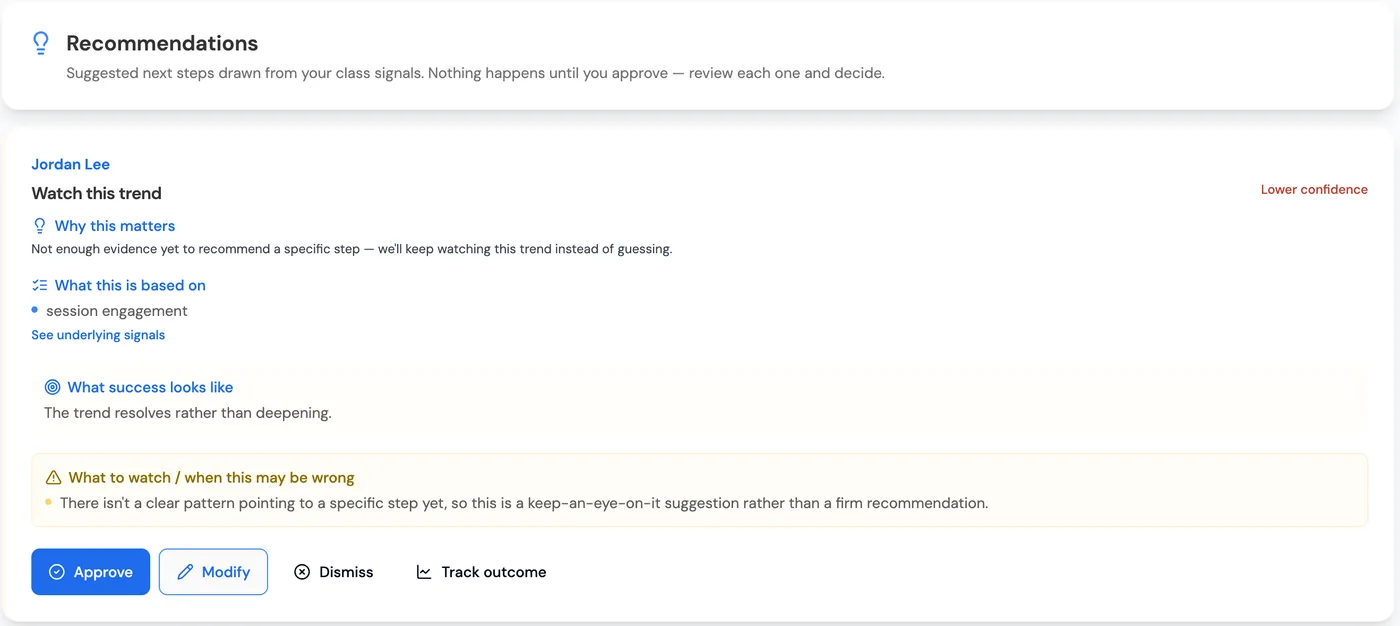
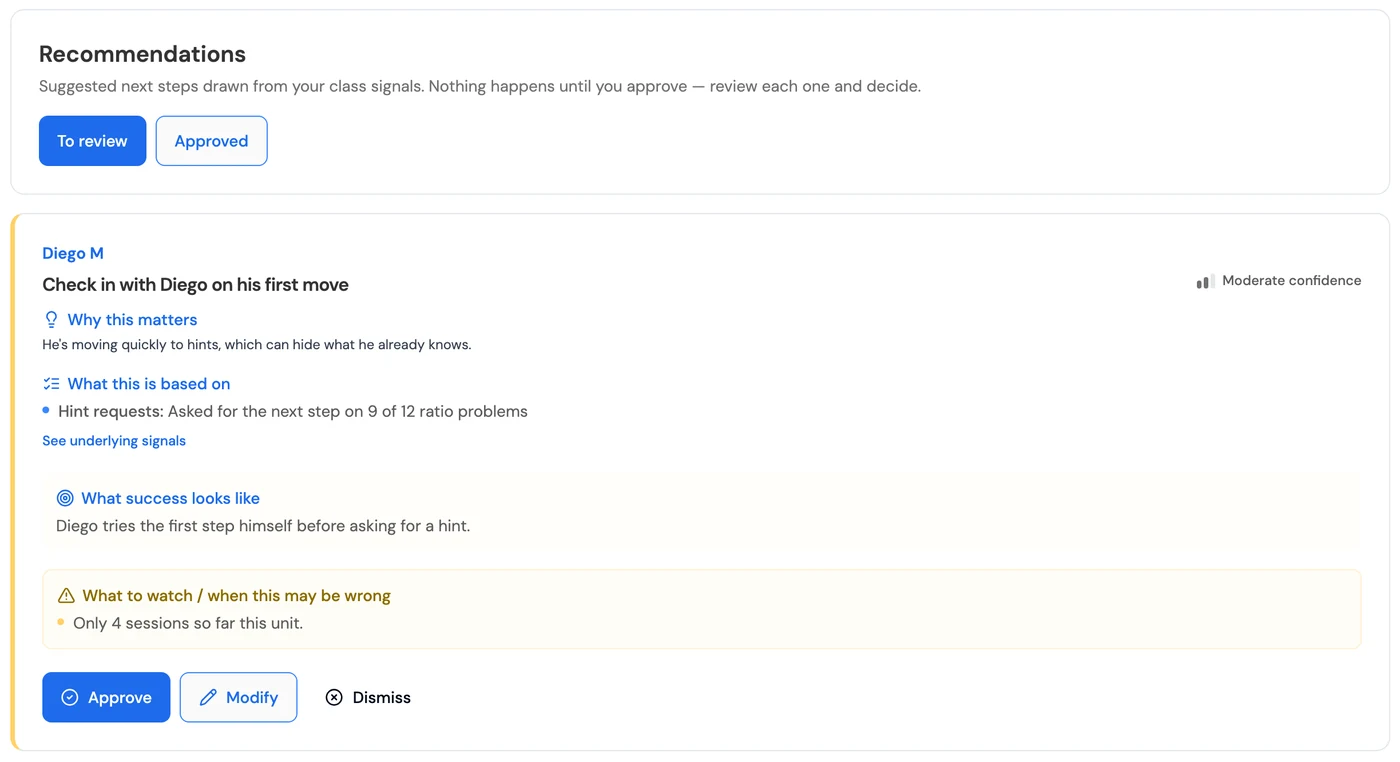
feat(screens): redesigned app screenshots on teacher, parent and school pages
Swap the old-UI Today's Brief, Recommendations, parent weekly activity, Trust & Privacy
and Learner Passport crops for the 2026-10-29 redesign batch, and add two new beats:
student Home with Sprig and XP on /parents, and parent Consent & Privacy on /schools.
All crops are cut and resized only (1400px WebP) from hermetic demo data.

diff --git a/src/data/productScreens.ts b/src/data/productScreens.ts
@@ -1,6 +1,8 @@
 // Cropped screens from the live Mentra app, shot on a fictional showcase class.
 // Source frames: marketing/carousel/<date>/ in the app repo (see the showcase doc for
 // which frames are cleared for marketing). Crops live in /public/images/product.
+// The teacher Brief and Recommendations, parent Home, Trust and Consent, and student Home and Passport crops come
+// from the 2026-10-29 redesign batch (hermetic demo data: Maya R, Diego M and the rest are invented).
 
 /**
  * What the interaction on a screen feeds into the learner model. Every line must trace to code in the
@@ -155,12 +157,12 @@ export const screens = {
     },
   ),
   parentTrust: screen(
-    'parent-trust', 1400, 479, 'Parent · Trust & Privacy',
-    "A parent's Trust & Privacy page: an active consent record listing five purposes, with partner sharing and anonymized product use turned off, and a toggle for each purpose explaining what turning it off does.",
+    'parent-trust', 1400, 631, 'Parent · Trust & Privacy',
+    "A parent's Trust & Privacy page for their child Maya: consent active since Aug 14, 2026, and a toggle for each of six purposes, from running Mentra to product update emails. Each one says what it allows and what turning it off changes. Partner sharing and product emails are off.",
   ),
   teacherBrief: screen(
-    'teacher-brief', 1400, 517, "Teacher · Today's Brief",
-    "A teacher's Today's Brief: class signals written as plain sentences, and one recommendation that says there isn't enough evidence yet, so it will keep watching instead of guessing.",
+    'teacher-brief', 1400, 758, "Teacher · Today's Brief",
+    "A teacher's Today's Brief: class signals written as plain sentences, then What needs me today. Diego M needs attention because he has been asking Sprig for the next step on most ratio problems, with a suggested next step and a note that it's based on 4 sessions. Below it, 2 assignments need grading and a recommendation to check in with Diego.",
   ),
   teacherAnalytics: screen(
     'teacher-analytics', 1400, 782, 'Teacher · Investigation analytics',
@@ -175,12 +177,12 @@ export const screens = {
     },
   ),
   teacherRecommendation: screen(
-    'teacher-recommendation', 1400, 626, 'Teacher · Recommendations',
-    "A recommendation for Jordan marked lower confidence, explaining why it matters, what it's based on, what success looks like and when it may be wrong, with Approve, Modify, Dismiss and Track outcome buttons. The page notes that nothing happens until the teacher approves.",
+    'teacher-recommendation', 1400, 762, 'Teacher · Recommendations',
+    "A recommendation to check in with Diego on his first move, marked moderate confidence. It says why it matters, that it's based on him asking for the next step on 9 of 12 ratio problems, what success looks like, and that it may be wrong because there have only been 4 sessions. Approve, Modify and Dismiss buttons sit below. The page notes that nothing happens until the teacher approves.",
   ),
-  parentOneQuestion: screen(
-    'parent-one-question', 1400, 354, 'Parent · One question this week',
-    "A two-minute suggestion for Jordan's parent: at dinner, ask what Jordan figured out this week, then just listen. It notes it's a general tip because no standout moments came up this week, and offers four feedback buttons.",
+  parentHome: screen(
+    'parent-home', 1400, 391, 'Parent · Home',
+    "A parent's home page. A 10-minute activity, Ratios at the dinner table: Maya's class is working on ratios, so double a favorite recipe together and ask her how she knows how much of each ingredient to use, with four feedback buttons. Beside it, good news: Maya caught and fixed her own mistake on a ratio problem this week, and a suggestion to ask her how she noticed.",
   ),
   teacherParentMessage: screen(
     'teacher-parent-message', 1400, 978, 'Teacher · Messages with families',
@@ -190,9 +192,17 @@ export const screens = {
     'parent-teacher-message', 1400, 1033, 'Parent · Messages with the teacher',
     "The parent's view of the same thread: the teacher's message about Jordan's sunlight conversation with Sprig, and the parent's reply saying they'll ask about the plant in the dark at dinner.",
   ),
-  parentPassport: screen(
-    'parent-passport', 1400, 283, 'Parent · Learner Passport',
-    "Milestones on a child's Learner Passport, as the parent sees it: Reflection Beginner and Dream Planter reached, with Story Weaver at 4 of 10 journal entries and Goal Builder at 2 of 5 goals next.",
+  studentPassport: screen(
+    'student-passport', 1400, 775, 'Student · Learner Passport',
+    "A student's Learner Passport. At the top, an insight marked starting to show: you tend to slow down and check your thinking before you answer. The passport says when it started counting each activity, then lists recorded activity (7 Guided Q&A, 5 journal entries, 4 assignments, 3 explorations) and three goals the student set, each with their own estimate of progress.",
+  ),
+  parentConsent: screen(
+    'parent-consent', 1400, 720, 'Parent · Consent & Privacy',
+    "A parent's Consent & Privacy page. A note says the child can use Sprig only with the parent's OK, which they can give, review or withdraw at any time. Maya R, grade 6 and under 13, has active consent with History, Withdraw consent and Request Data Deletion buttons. Below, the parent can export the child's last 30 days of AI conversations, redacted for privacy, as JSON or for printing.",
+  ),
+  studentHome: screen(
+    'student-home', 1400, 755, 'Student · Home',
+    "A student's home page: Good afternoon, Maya, with 1 of 3 quests done. Her Sprig is at level 3, 110 XP from level 4. A card offers to continue yesterday's Ask Sprig question, why does ice float. Today's quests: ask Sprig a why-question (done, 15 XP), write one journal reflection, and explore an idea spark.",
   ),
 } satisfies Record<string, Screen>;
 

diff --git a/src/data/audiences.ts b/src/data/audiences.ts
@@ -92,6 +92,12 @@ export const audiences: Audience[] = [
         screen: screens.studentZoe,
       },
       {
+        eyebrow: 'Their home screen',
+        title: 'A Sprig that grows with them',
+        text: 'Your child earns XP for asking why, writing a reflection or exploring an idea, not for right answers. Their Sprig levels up as they go, and they pick up where they left off.',
+        screen: screens.studentHome,
+      },
+      {
         eyebrow: 'From the teacher',
         title: 'A story, not just a grade',
         text: "Your child's teacher can share what happened in a conversation with Sprig, in your child's own words, with one thing to ask at dinner.",
@@ -100,14 +106,14 @@ export const audiences: Audience[] = [
       {
         eyebrow: 'At home',
         title: 'One small thing to try',
-        text: 'Each week you get one two-minute idea, not a report card. Tap a button to tell Mentra whether it landed.',
-        screen: screens.parentOneQuestion,
+        text: 'Each week you get one small thing to try at home, tied to what the class is learning. Tap a button to tell Mentra whether it landed.',
+        screen: screens.parentHome,
       },
       {
         eyebrow: 'Learner Passport',
         title: 'A record of what your child has done',
-        text: "The Learner Passport shows milestones your child has reached and what's next. It's honest about its limits: not every activity is counted there yet.",
-        screen: screens.parentPassport,
+        text: "Your child's Learner Passport shows what they've done and the goals they set, and says when it started counting each activity. It's honest about its limits: not every activity is counted there yet.",
+        screen: screens.studentPassport,
       },
       {
         eyebrow: 'Permissions',
@@ -148,6 +154,12 @@ export const audiences: Audience[] = [
         title: "Honest about what it doesn't know yet",
         text: "Until there's enough recent work, a student's read says so instead of producing a number your board can't trust. The turns it has seen are listed and labelled, and a turn where the student only repeated Sprig isn't counted as independent work.",
         screen: screens.teacherTurnTrace,
+      },
+      {
+        eyebrow: 'Family consent',
+        title: 'Parents hold the keys',
+        text: "A child under 13 uses Sprig only with a parent's OK. Parents can review or withdraw consent, request deletion, and download their child's recent AI conversations.",
+        screen: screens.parentConsent,
       },
     ],
     pilot: [
